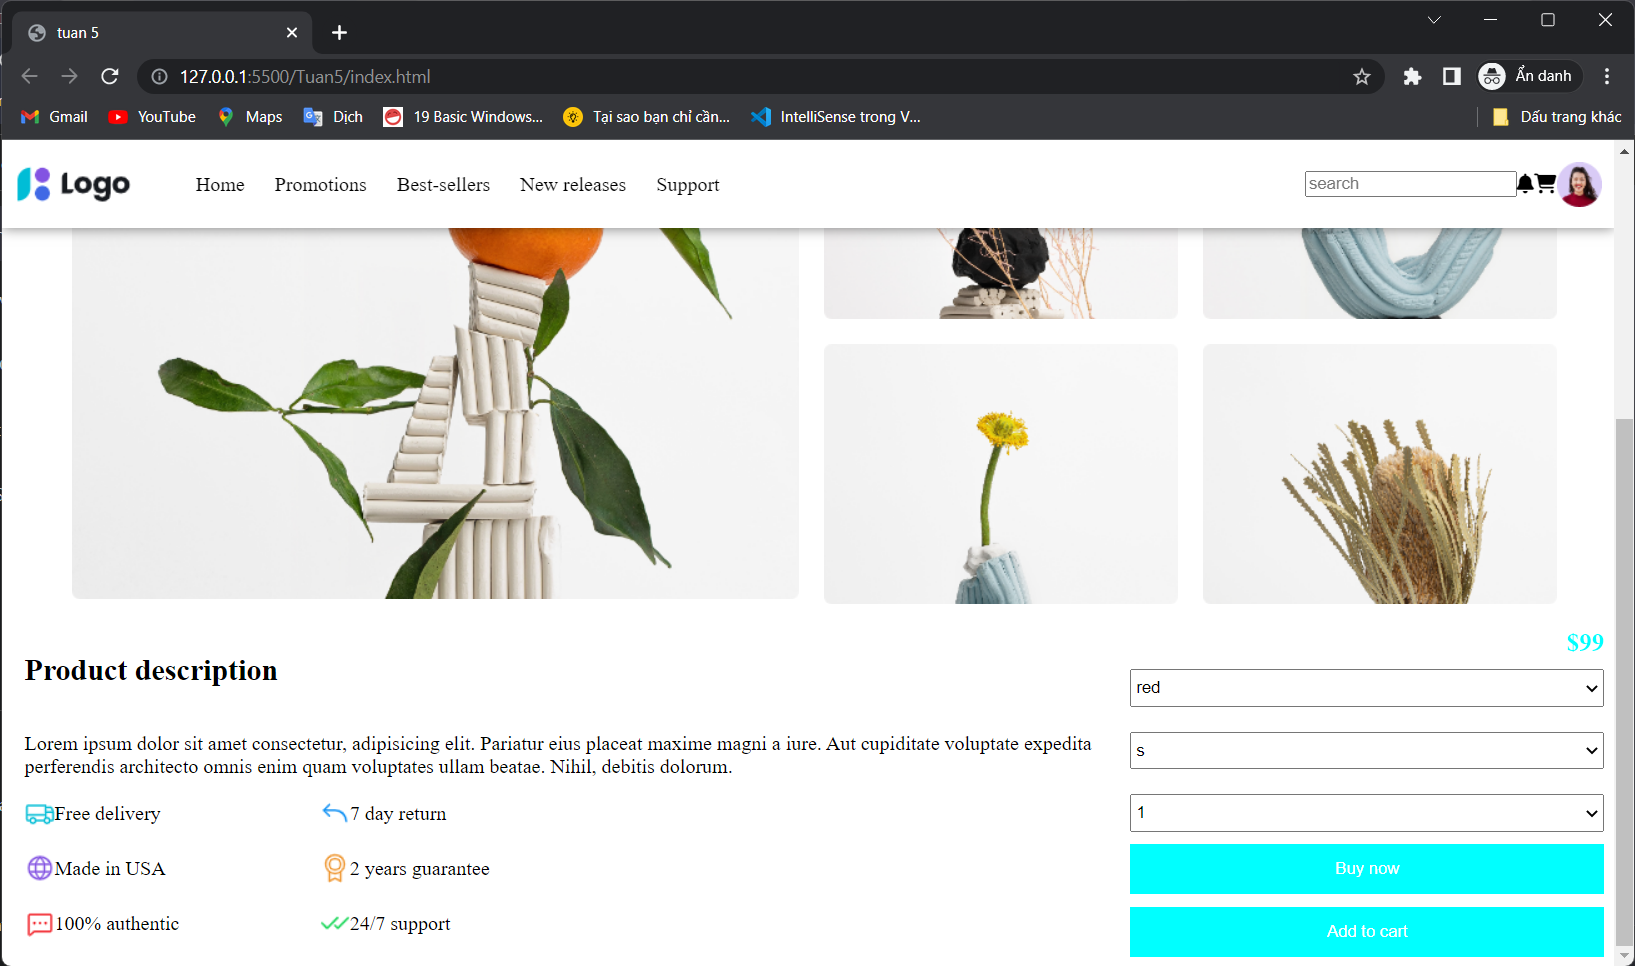
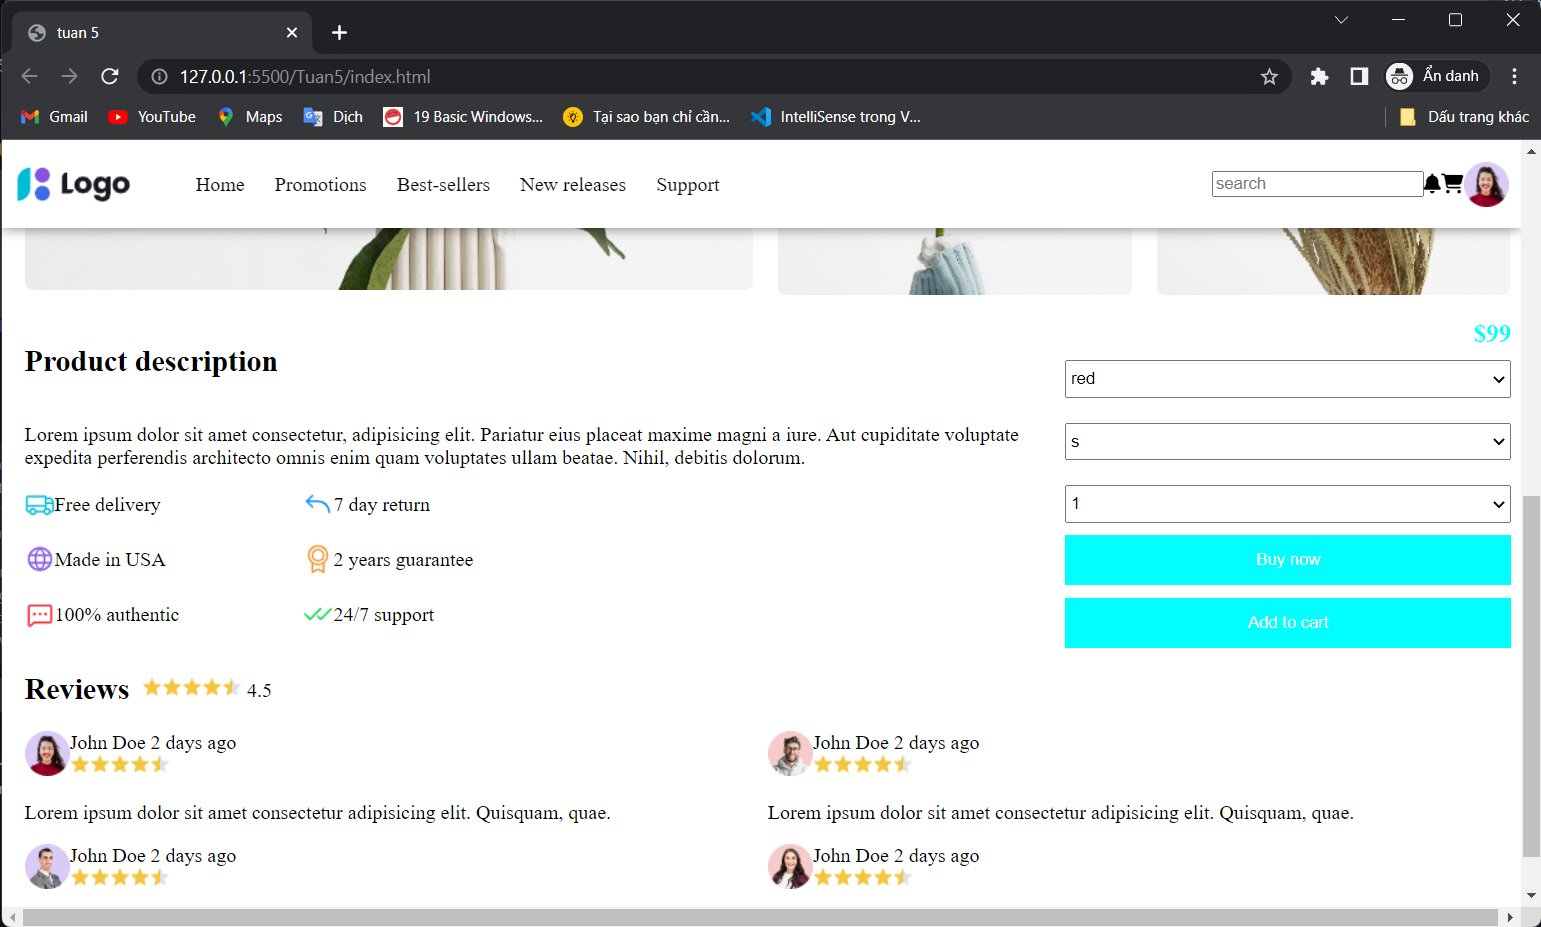
web_tuan5_finishReview

diff --git a/Tuan5/index.html b/Tuan5/index.html
@@ -104,6 +104,93 @@
                     <button type="button">Add to cart</button>
                 </div>
             </div>
+            <div class="review">
+                <div class="review__title">
+                    <h2>Reviews</h2>
+                    <div class="review__title-rate">
+                        <img src="image/Rating 303.png" alt="">
+                        <span>4.5</span>
+                    </div>
+                </div>
+                <div class="review__mess">
+                    <div class="review__mess-item">
+                        <div class="review_mess-item-person">
+                            <div class="review__mess-item-avatar">
+                                <img src="image/Avatar 758.png" alt="">
+                            </div>
+                            <div class="review__mess-item-title">
+                                <div class="review__mess-item-title-text">
+                                    <span>John Doe</span>
+                                    <span>2 days ago</span>
+                                </div>
+                                <div class="review__mess-item-title-rate">
+                                    <img src="image/Rating 303.png" alt="">
+                                </div>
+                            </div>
+                        </div>
+                        <div class="review__mess-item-content">
+                            <p>Lorem ipsum dolor sit amet consectetur adipisicing elit. Quisquam, quae.</p>
+                        </div>
+                    </div>
+                    <div class="review__mess-item">
+                        <div class="review_mess-item-person">
+                            <div class="review__mess-item-avatar">
+                                <img src="image/Avatar 753.png" alt="">
+                            </div>
+                            <div class="review__mess-item-title">
+                                <div class="review__mess-item-title-text">
+                                    <span>John Doe</span>
+                                    <span>2 days ago</span>
+                                </div>
+                                <div class="review__mess-item-title-rate">
+                                    <img src="image/Rating 303.png" alt="">
+                                </div>
+                            </div>
+                        </div>
+                        <div class="review__mess-item-content">
+                            <p>Lorem ipsum dolor sit amet consectetur adipisicing elit. Quisquam, quae.</p>
+                        </div>
+                    </div>
+                    <div class="review__mess-item">
+                        <div class="review_mess-item-person">
+                            <div class="review__mess-item-avatar">
+                                <img src="image/Avatar 755.png" alt="">
+                            </div>
+                            <div class="review__mess-item-title">
+                                <div class="review__mess-item-title-text">
+                                    <span>John Doe</span>
+                                    <span>2 days ago</span>
+                                </div>
+                                <div class="review__mess-item-title-rate">
+                                    <img src="image/Rating 303.png" alt="">
+                                </div>
+                            </div>
+                        </div>
+                        <div class="review__mess-item-content">
+                            <p>Lorem ipsum dolor sit amet consectetur adipisicing elit. Quisquam, quae.</p>
+                        </div>
+                    </div>
+                    <div class="review__mess-item">
+                        <div class="review_mess-item-person">
+                            <div class="review__mess-item-avatar">
+                                <img src="image/Avatar 757.png" alt="">
+                            </div>
+                            <div class="review__mess-item-title">
+                                <div class="review__mess-item-title-text">
+                                    <span>John Doe</span>
+                                    <span>2 days ago</span>
+                                </div>
+                                <div class="review__mess-item-title-rate">
+                                    <img src="image/Rating 303.png" alt="">
+                                </div>
+                            </div>
+                        </div>
+                        <div class="review__mess-item-content">
+                            <p>Lorem ipsum dolor sit amet consectetur adipisicing elit. Quisquam, quae.</p>
+                        </div>
+                    </div>
+                </div>
+            </div>
         </div>
         <div class="footer">
             

diff --git a/Tuan5/main.css b/Tuan5/main.css
@@ -112,3 +112,22 @@ button + button {
     padding: 12px;
     color: white;
 }
+.review {
+    display: flex;
+    flex-direction: column;
+    width: 100%;
+}
+.review__title {
+    /* text-align: left; */
+    display: flex;
+    align-items: center;
+    gap: 10px;
+}
+.review__mess {
+    display: grid;
+    grid-template-columns: 1fr 1fr;
+}
+.review_mess-item-person {
+    display: flex;
+    
+}
